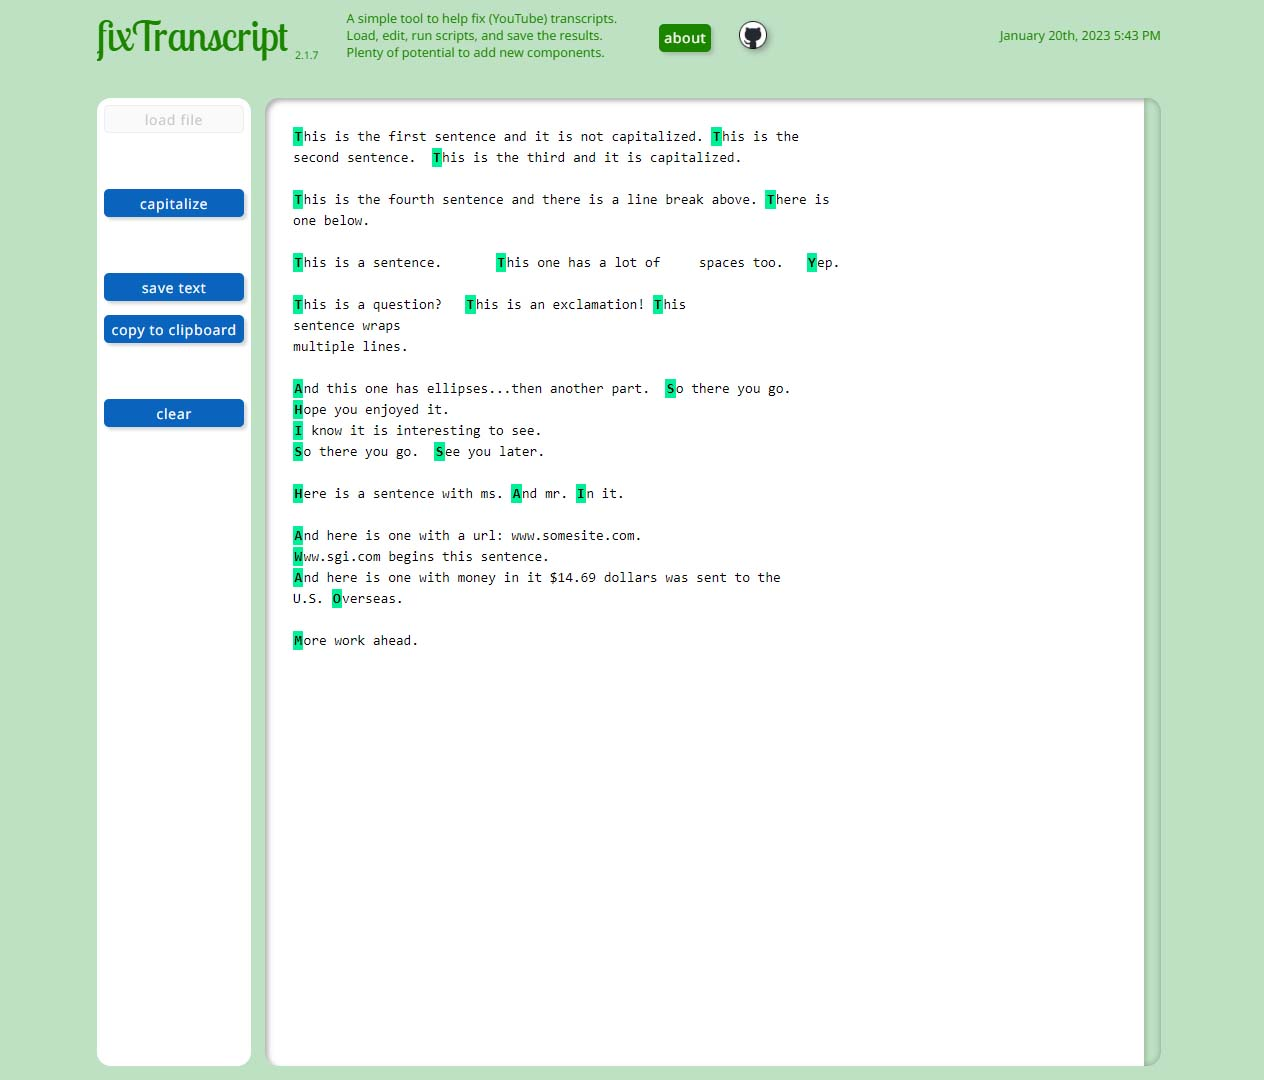
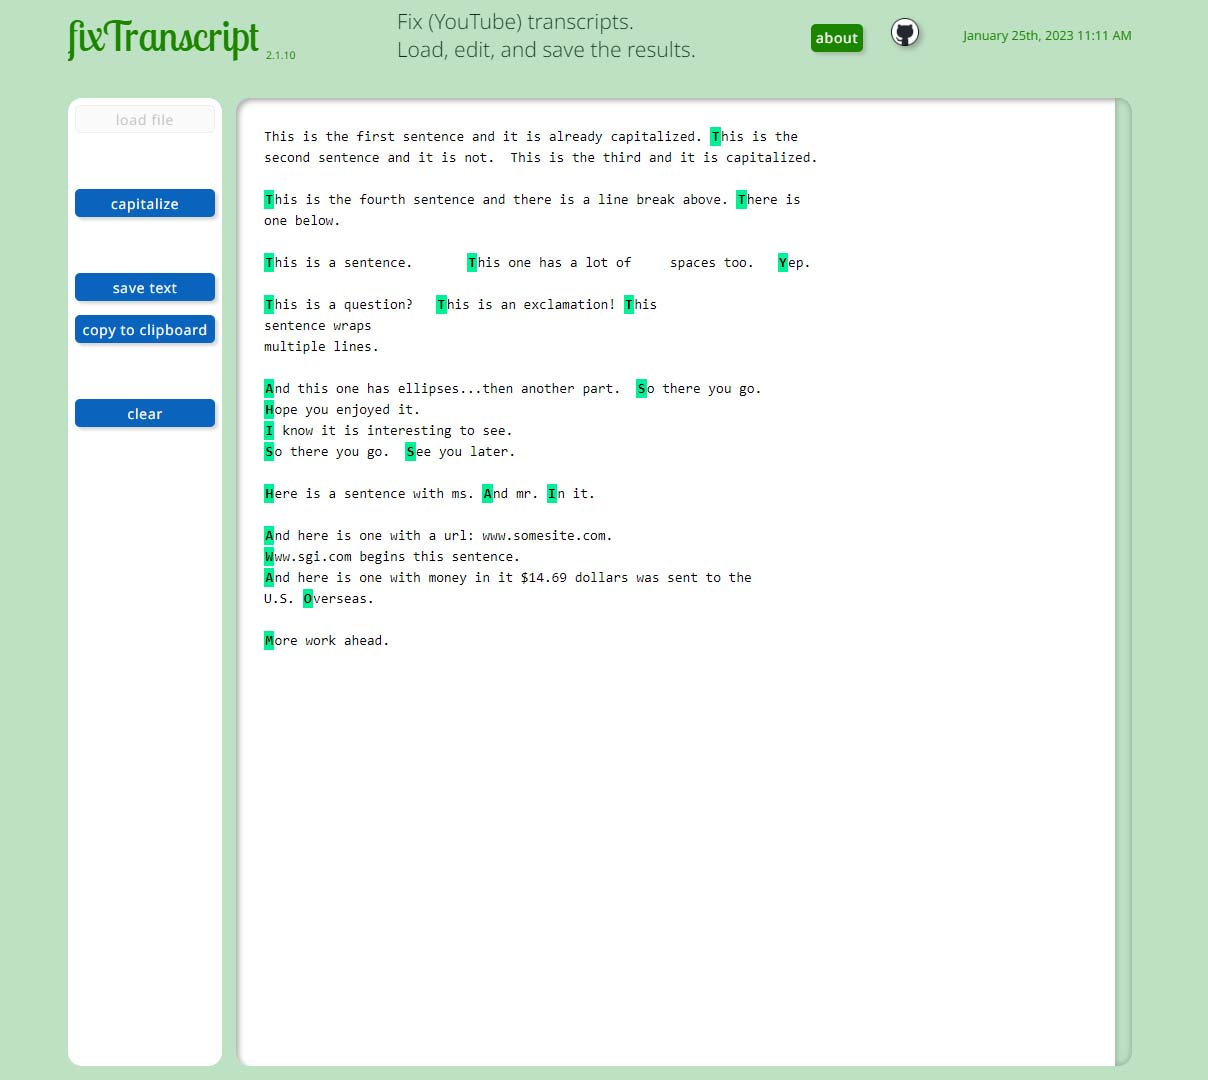
fixed header layout; fixed clipboard copying for FireFox; updated the screenshot

diff --git a/main/main.js b/main/main.js
@@ -39,14 +39,16 @@ async function main() {
 function createTheHeader(parent) {
   let header = createHeader({parent:parent, date:'MMMM DTH, YYYY HH:NN AMPM'});
   let left = header.getLeftContainer();
-  createDiv(left, 'mainHeaderTitle', 'fixTranscript');
-  createDiv(left, 'mainHeaderVersion', getVersion());
+  let title = createDiv(left, 'mainHeaderTitle', 'fixTranscript');
+  createDiv(title, 'mainHeaderVersion', getVersion());
   let mdc = createDiv(left, 'mainDescriptionContainer');
-  createDiv(mdc, '', 'A simple tool to fix transcripts.');
+  createDiv(mdc, '', 'Fix (YouTube) transcripts.');
   createDiv(mdc, '', 'Load, edit, and save the results.');
-  createButton(left, 'mainAboutButton', 'about', handleAboutButton);
 
-  let anchor = createAnchor(left, '', 'https://github.com/rg3h/fixTranscript');
+  let bl = createDiv(left, 'mainHeaderButtonList');
+  createButton(bl, 'mainAboutButton', 'about', handleAboutButton);
+
+  let anchor = createAnchor(bl, '', 'https://github.com/rg3h/fixTranscript');
   createImg(anchor, 'mainImageLink', './assets/images/github.png');
 
   return header;
@@ -115,10 +117,10 @@ async function handleClipboardButton(e) {
   try {
     await copyToClipboard(text);
   } catch(error) {
-    alert('there was an error copying to the clipboard', error);
+    alert('Unable to copy to the clipboard', error);
     return;
   }
-  alert('Copied the text to the clipboard.');
+  alert('Successfully copied the text to the clipboard.');
 }
 
 
@@ -148,52 +150,22 @@ function handleLoadFile(e) {
 
 
 async function copyToClipboard(text) {
-  return new Promise((resolve, reject) => {
-    if (typeof navigator !== 'undefined' &&
-        typeof navigator.clipboard !== 'undefined' &&
-        navigator.permissions !== 'undefined') {
-      const type = 'text/plain';
-      const blob = new Blob([text], { type });
-      const data = [new ClipboardItem({ [type]: blob })];
-      navigator.permissions.query({name: 'clipboard-write'})
-        .then((permission) => {
-          if (permission.state === 'granted' || permission.state === 'prompt') {
-            navigator.clipboard.write(data).then(resolve, reject).catch(reject);
-          }
-          else {
-            reject(new Error('Permission not granted!'));
-          }
-        });
+  if (typeof navigator !== 'undefined' &&
+      typeof navigator.clipboard !== 'undefined' &&
+      navigator.permissions !== 'undefined') {
+    try {
+      // const type = 'text/plain';
+      // const blob = new Blob([text], { type });
+      // const data = [new ClipboardItem({ [type]: blob })];
+      // await navigator.clipboard.writeText(data);
+      await navigator.clipboard.writeText(text);
+      // alert('yay');
+    } catch(error) {
+      // alert('boo');
+      // console.error('Failed to copy to the clipboard', err);
+      reject(error);
     }
-    else if (document.queryCommandSupported &&
-             document.queryCommandSupported('copy')) {
-      let textarea = document.createElement('textarea');
-      textarea.textContent = text;
-      textarea.style.position = 'fixed';
-      textarea.style.width = '2em';
-      textarea.style.height = '2em';
-      textarea.style.padding = 0;
-      textarea.style.border = 'none';
-      textarea.style.outline = 'none';
-      textarea.style.boxShadow = 'none';
-      textarea.style.background = 'transparent';
-      document.body.appendChild(textarea);
-      textarea.focus();
-      textarea.select();
-      try {
-        document.execCommand('copy');
-        document.body.removeChild(textarea);
-        resolve();
-      }
-      catch (e) {
-        document.body.removeChild(textarea);
-        reject(e);
-      }
-    }
-    else {
-      reject(new Error('clipboard methods note supported by this browser'));
-    }
-  });
+  }
 }
 
 

diff --git a/main/main.css b/main/main.css
@@ -81,6 +81,7 @@ ol {
 }
 
 .headerLeftContainer {
+  justify-content: space-between;
   width: 80%;
 }
 
@@ -95,6 +96,7 @@ ol {
 
 .mainHeaderTitle {
   animation: rotateDownAnim 0.5s ease-in-out 2s forwards;
+  display: flex;
   font-family: lobsterTwo, notoSansExtraLight, arial;
   font-size: 3rem;
   transform: rotate(var(--titleAngle));
@@ -102,6 +104,7 @@ ol {
 
 .mainHeaderVersion {
   align-self: end;
+  font-family: notoSans, arial;
   font-size: 0.75rem;
   margin-left: 0.5rem;
 }
@@ -113,13 +116,17 @@ ol {
   margin-left: 2rem;
 }
 
-@media screen and (max-width: 1038px) {
+.mainHeaderButtonList {
+  display: flex;
+}
+
+@media screen and (max-width: 940px) {
   div.mainDescriptionContainer { display: none; }
   div.headerLeftContainer { width: 70%; }
   div.headerRightContainer { width: 30%}
 }
 
-@media screen and (max-width: 600px) {
+@media screen and (max-width: 635px) {
   div.mainAboutButton { display: none; }
   img.mainImageLink { display: none; }
   div.headerLeftContainer { width: 60%; }

diff --git a/components/version/version.js b/components/version/version.js
@@ -2,5 +2,5 @@
 export { getVersion };
 
 function getVersion() {
-  return '2.1.9';
+  return '2.1.10';
 }
